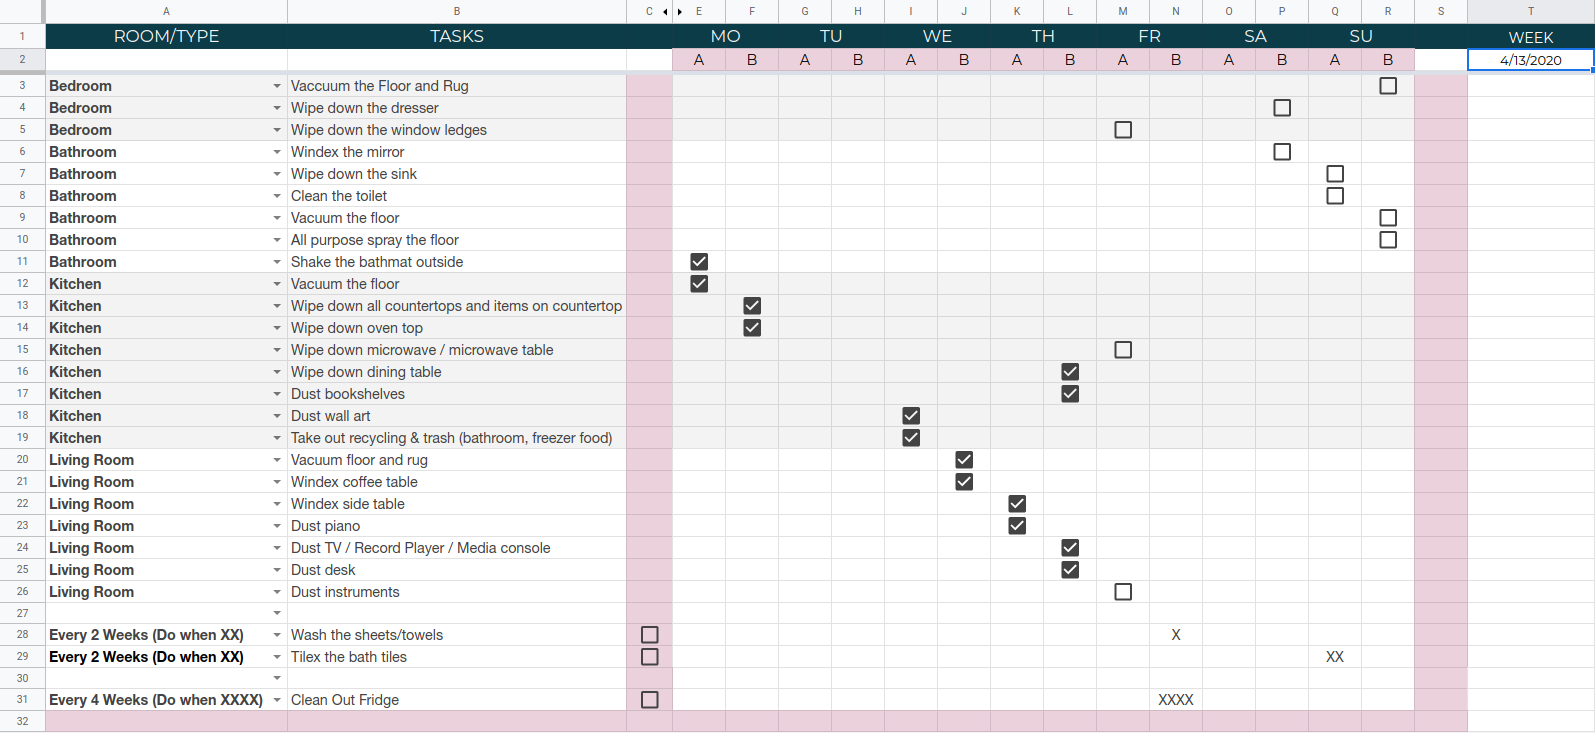
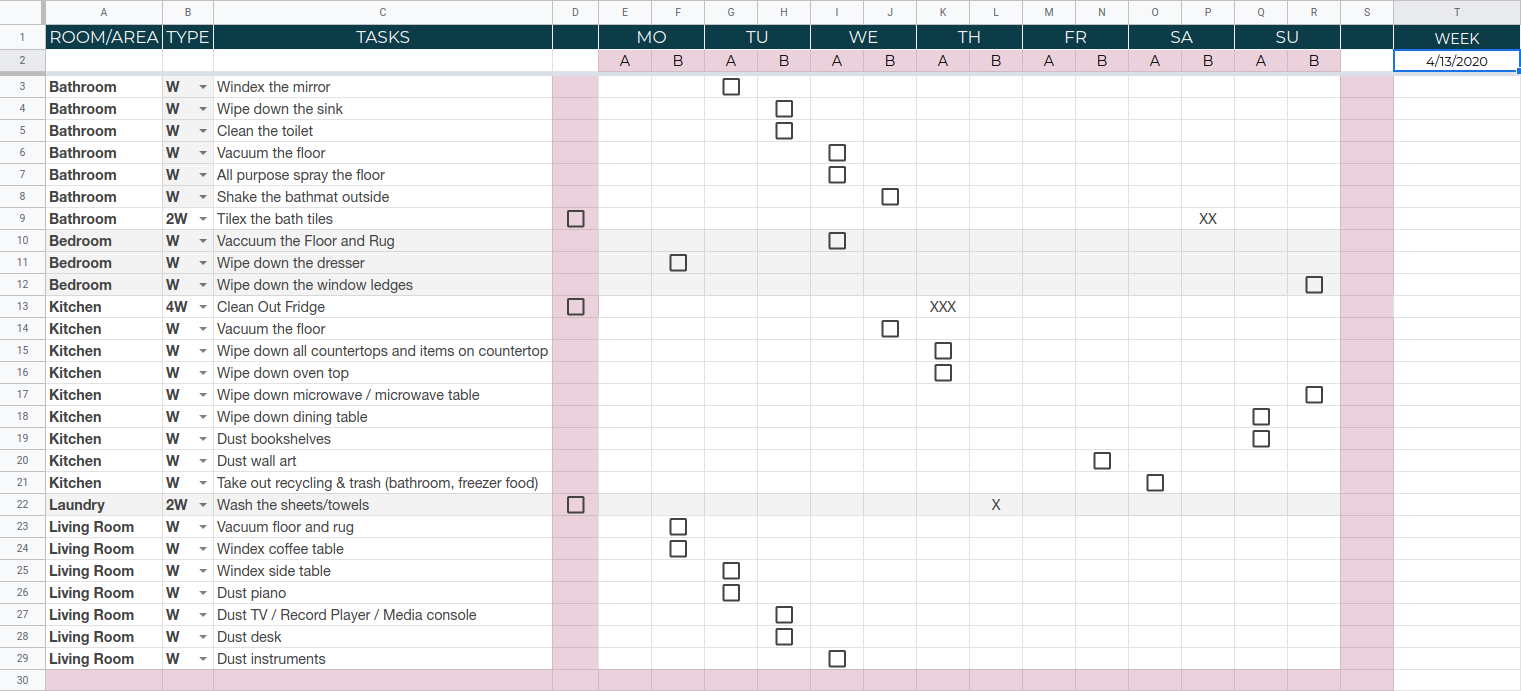
update blog with updated spreadsheet

diff --git a/_posts/2020-04-17-chore-cycle.md b/_posts/2020-04-17-chore-cycle.md
@@ -8,9 +8,11 @@ tags:
   - google sheets
   - google apps script
 ---
-[![img]({{ '/assets/img/chore_cycle.png' | relative_url }}){: .center-image }*just look at this sheet*]({{'/assets/img/chore_cycle.png' | relative_url}})
 
-___
+[![img]({{ '/assets/img/chore_cycle.png' | relative_url }}){: .center-image }_just look at this sheet_]({{'/assets/img/chore_cycle.png' | relative_url}})
+
+---
+
 # why with this sheet
 
 - I hate cleaning; I love clean.
@@ -23,7 +25,8 @@ I wanted to take the GGB approach to cleaning our apartment while we are locked 
 
 Our apartment has never been so clean because it is never not being cleaned.
 
-___
+---
+
 # what is this sheet
 
 After modifying your copy of this spreadsheet, you can run the choreCycle function to cycle the chores for the next week. You can continue to edit and change the behavior of your copy to your liking. Use this sheet to see who needs to do what chores each day and live that _#nevernotcleanlyfe_. Go wild!
@@ -54,60 +57,66 @@ Here are some features used in this sheet:
   - Even though cycleChores() will automatically execute on the time-based trigger, you can execute it locally to test and check for configuration errors.
   - You can view macros at `Tools > Macros`.
 
-___
+---
+
 # how to use this sheet
 
 ### 1. Install
 
-- Make a copy of this [sheet](https://docs.google.com/spreadsheets/d/1kO8fvWP9GukuoiwqLK5amuojOx1IbEPJSk3klVSGQKI/copy){:target="_blank"}.
+- Make a copy of this [sheet](https://docs.google.com/spreadsheets/d/1kO8fvWP9GukuoiwqLK5amuojOx1IbEPJSk3klVSGQKI/copy){:target="\_blank"}.
 - Rename your new copy to whatever the hell you want.
 
 ### 2. Customize your sheet with chores and people
 
 - You won't have to do this step more than once. (But of course, you can always tweak!)
-- The template is set up with a person A and a person B for each day. Rename them if you want, or add more people to the cycle by adding columns and horizontally merging the DOTW cells in row 1. These things are up to you.
+- The template is set up with a person A and a person B for each day. Rename them if you want, or add more people to the cycle by adding columns and horizontally merging the Days of the week cells in row 1. These things are up to you.
 - Column A can be modified with whatever you want to organize your tasks.
-- Add Checkboxes on the days you want to do the chores with `Insert > Checkbox`.
+- Make sure to specify the type of task you are creating in Column B.
+  - W : Weekly Task that will cycle each week.
+  - 2W : Bi-weekly task that will cycle every two weeks.
+  - 4W : Monthly Task that will cycle every four weeks.
+- Add Checkboxes on the days you want to do weekly chores with `Insert > Checkbox`.
 
 ### 3. Add Irregular Interval Chores (IICs)
-[![img]({{ '/assets/img/irr_chores.png' | relative_url }}){: .center-image }*this sheet ain't regular*]({{'/assets/img/irr_chores.png' | relative_url}})
+
+[![img]({{ '/assets/img/irr_chores.png' | relative_url }}){: .center-image }_this sheet ain't regular_]({{'/assets/img/irr_chores.png' | relative_url}})
+
 - Sometimes we might want to add a chore that is only done once every two weeks or once every four weeks (The code currently only supports these two situations, but is easily extensible to once every 3 or 5 or 12...whatever).
-- Add as many of these tasks as you want to the sheet in the section below the main weekly chore cycle.
-- Populate days with a single X to start the Week Tally counter for that chore.
+- Add as many of these tasks as you want to the sheet specifying the type in column B as '2W' or '4W'.
+- Populate a day with a single X to start the Week Tally counter for that chore.
 - When the cell shows the number of XX's indicated by the chore type, i.e. 'XX' for two-week chore, 'XXXX' for four-week, that's when the chore should be completed.
 
 ### 4. Set Named Ranges
-[![img]({{ '/assets/img/named_ranges.png' | relative_url }}){: .center-image }*it is what it is*]({{'/assets/img/named_ranges.png' | relative_url}})
-- Unhide column D by clicking one of the two arrows in D1 (Column D is there to act as a temp clipboard for move/copy/paste reasons).
+
+[![img]({{ '/assets/img/named_ranges.png' | relative_url }}){: .center-image }_it is what it is_]({{'/assets/img/named_ranges.png' | relative_url}})
+
 - Go to `Data > Named ranges`.
-- Edit the Named ranges to match your new sheet. I will eventually clean these up and calculate them for you, but for now they need to be set manually. Hopefully once you get a good chore cycle in place, you won't have to modify these very much.
+- Edit the two Named ranges to match your new sheet.
 - Named Ranges Descriptions
-  - **chore_clpbrd:** D column, as many rows as weekly chores
-  - **chore_clpbrd_paste:** Last column of weekly chores range, as many rows as weekly chores
-  - **chores:** Whole weekly chore range not including column D (CLIP)
-  - **four_week:** Whole four-week chore range not including column D (CLIP)
-  - **moved_chores:** Whole weekly chore range INCLUDING column D (CLIP)
-  - **total_irr_with_clpbrd:** Whole irregular interval chore range (for now, just the two-week and four-week chores) INCLUDING column D (CLIP)
-  - **two_week:** Whole two-week chore range not including column D (CLIP)
-- Re-hide Column D. You don't need it anymore
+  - **chores:** Whole weekly chore range inside the the pink area -- if you added/deleted rows, just make sure you have selected the whole range.
+  - **weekCell:** The cell where the date will update. It will only change if you add more people to the sheet.
 
 ### 5. Modify Time-Based Trigger (Optional)
 
 - If you want to set up a trigger to run the script automatically each week, you can set a time-based trigger by going to the script editor at (`Tools > Script Editor`) and then in the script editor `Edit > Current project's triggers`.
 - Click the button to '+ Add Trigger'
 - Make the form look like this:
-  [![img]({{ '/assets/img/triggers.png' | relative_url }}){: .center-image }*sheetin' the sheet*]({{'/assets/img/triggers.png' | relative_url}})
+  [![img]({{ '/assets/img/triggers.png' | relative_url }}){: .center-image }_sheetin' the sheet_]({{'/assets/img/triggers.png' | relative_url}})
 - Click 'Save' and you have a trigger.
 - You may need to go through the steps of allowing access from the script to modify the data on your copy of the spreadsheet, which arrives as a pop-up window. No worries.
-  
-### 6. Test the cycleChores Macro
 
+### 6. Test the cycleChores Macro (Optional)
+
+- WARNING: At the moment, you cannot undo a full chore cycling, so I would suggest using a single row as a test of the macro.
+- To test that your cycling is set up properly, set a single task as your 'chores' named range. (i.e. set 'chores' named range to 'E3:R3')
 - Execute the macro to watch the cycle happen once with `Ctrl`{: .key}+`Alt`{: .key}+`Shift`{: .key}+`1`{: .key}. On a mac: `Cmd`{: .key}+`Option`{: .key}+`Shift`{: .key}+`1`{: .key}
-- Undo all the changes until you are back to your starting sheet.
+- Verify that the cycling worked for your test row, and then manually put it back to the state it started in.
 - If everything behaved as it should, you now have a working sheet.
 
 ### 7. Get to work and enjoy the cleanest apartment you have had in years!
-___
+
+---
+
 # troublesheeting
 
 - Double check your Named ranges are correct
